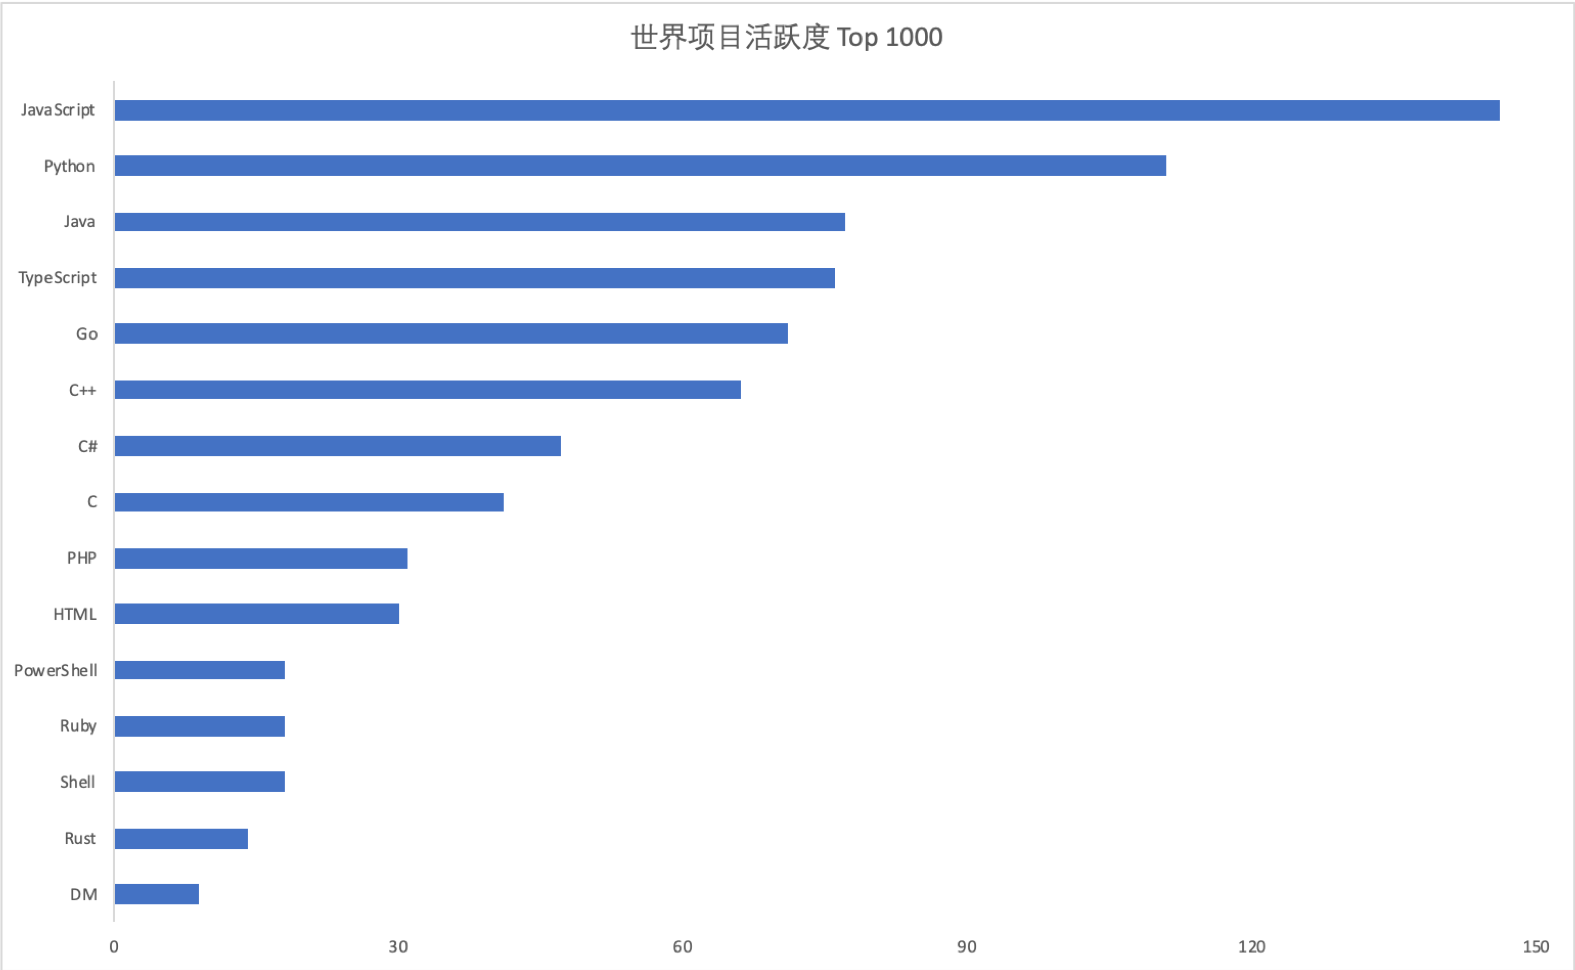
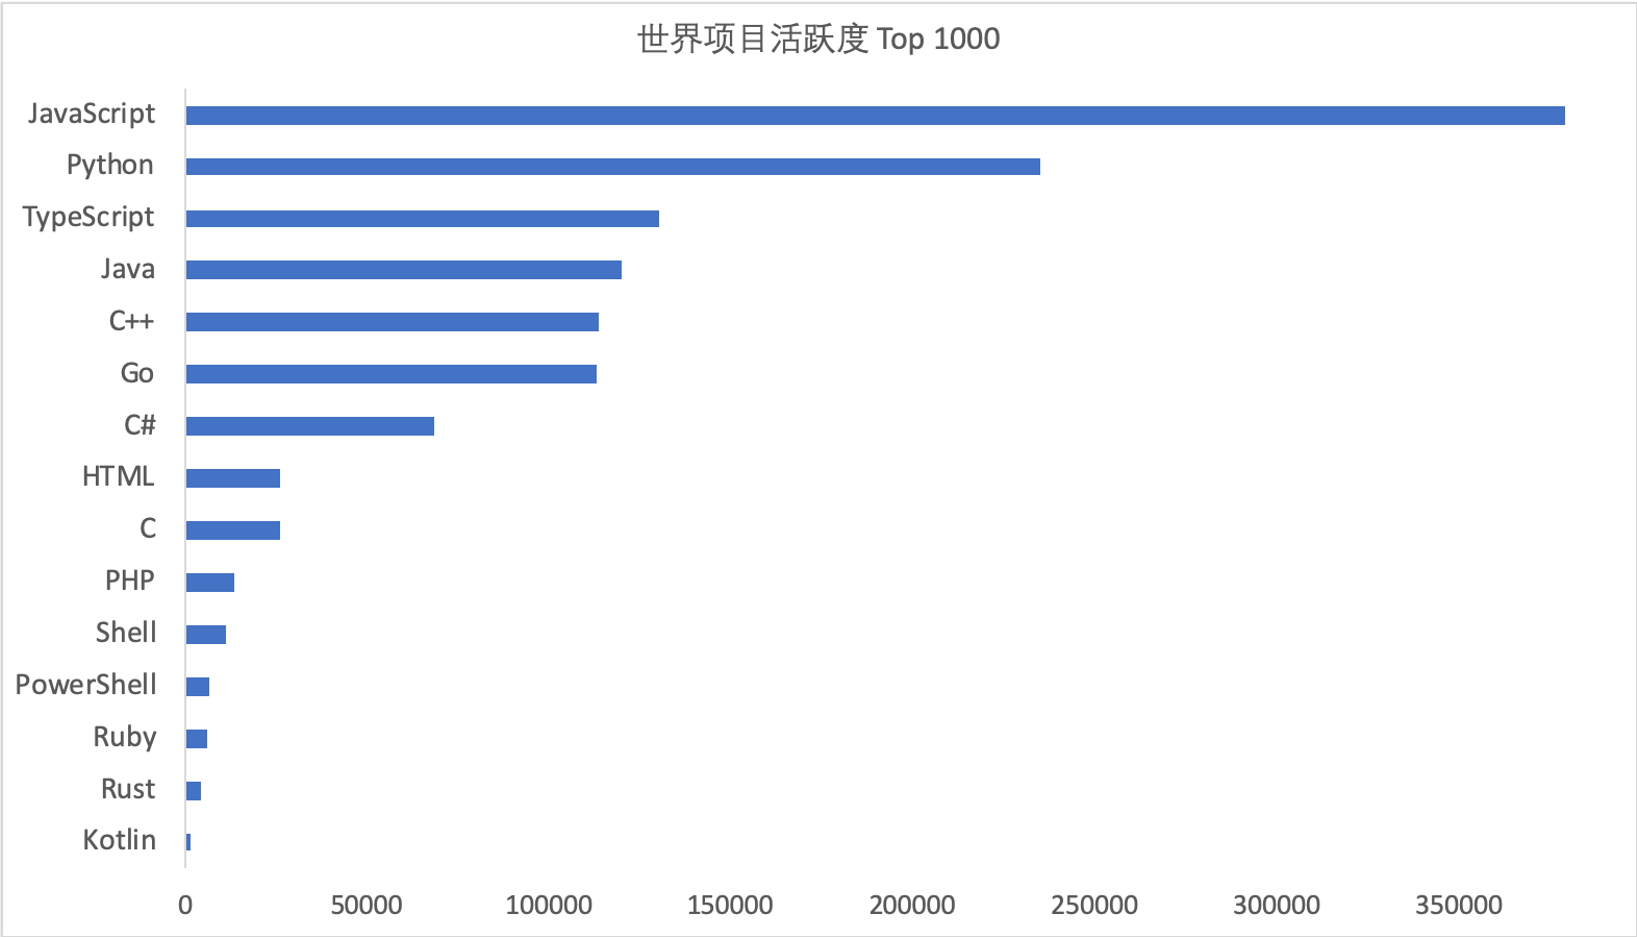
update reportv2.md

diff --git a/REPORTV2.md b/REPORTV2.md
@@ -119,7 +119,7 @@
 
 ### 2.6 开发语言分析
 
-我们分别对世界项目活跃度 Top 1000 的项目、世界项目参与人数 Top 1000 的项目和中国开源项目进行了开发语言的统计（如图9和图10所示），可以发现 JavaScript 使用最多。
+我们分别对世界项目活跃度 Top 1000 的项目、世界项目参与人数 Top 1000 的项目和中国开源项目统计了不同开发语言的项目数量以及使用不同开发语言进行 PushEvent 操作的开发者的数量，二者相乘估计使用不同开发语言的开发者的数量。（如图9和图10所示），可以发现 JavaScript 使用最多。
 
 ![world_active_project_language](./static/world_active_project_language.png)
 
